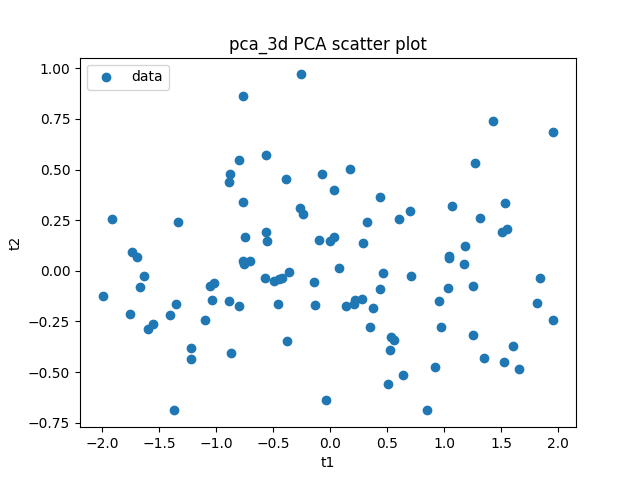
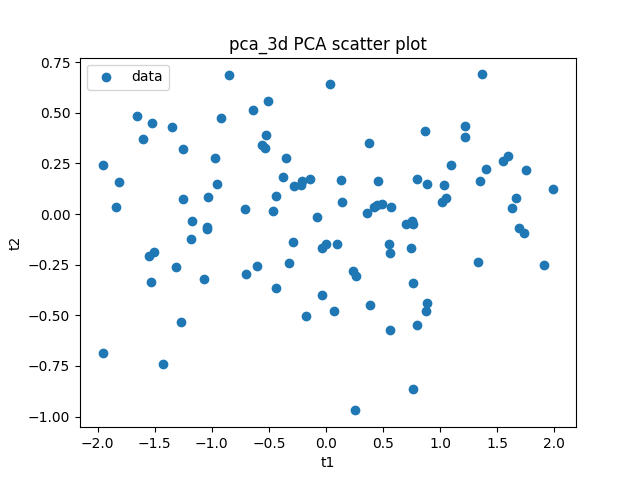
課題2の機能面の実装完了

diff --git a/ex2/y_arakawa/main.py b/ex2/y_arakawa/main.py
@@ -78,8 +78,8 @@ def pca_2d(
   X_cov = np.cov(X_centered.T)
   print("X_cov:\n",X_cov)
   # 固有値、固有ベクトルを求める
-  eig = np.linalg.eig(X_cov)[0]
-  eigvec = np.linalg.eig(X_cov)[1]
+  eig = np.linalg.eigh(X_cov)[0]
+  eigvec = np.linalg.eigh(X_cov)[1]
   # 大きい順に並べ替え
   idx = np.argsort(eig)[::-1]
   eig = eig[idx]
@@ -136,8 +136,8 @@ def pca_3d(
   X_cov = np.cov(X_centered.T)
   print("X_cov:\n",X_cov)
   # 固有値、固有ベクトルを求める
-  eig = np.linalg.eig(X_cov)[0]
-  eigvec = np.linalg.eig(X_cov)[1]
+  eig = np.linalg.eigh(X_cov)[0]
+  eigvec = np.linalg.eigh(X_cov)[1]
   # 大きい順に並べ替え
   idx = np.argsort(eig)[::-1]
   eig = eig[idx]
@@ -166,23 +166,23 @@ def make3d_scatter_axis_figure(
     ) -> None:
   """主成分の軸表示付きの3次元散布図を作成する．"""
   print(f"中心:\n({ave_x}, {ave_y}, {ave_z})")
-  x_range = [-1.5, 1.5]
-  y_range = [-1.5, 1.5]
-  z_range = [-1.5, 1.5]
   fig = plt.figure()
   ax = fig.add_subplot(111, projection="3d")
   ax.scatter(x, y, z, label="data")
   colors = ["tab:red", "tab:blue", "tab:green"]
+  axis_length = 1.5
   for i in range(3):
     direction = coefficients[:, i]
     slope_y = direction[1] / direction[0] if direction[0] != 0 else np.inf
     slope_z = direction[2] / direction[0] if direction[0] != 0 else np.inf
-    ax.quiver(
-      ave_x, ave_y, ave_z,
-      direction[0], direction[1], direction[2],
-      color=colors[i],
-      label=f"PC{i + 1}"
-    )
+    norm = np.linalg.norm(direction)
+    if norm == 0:
+      continue
+    unit_direction = direction / norm
+    line_x = [ave_x - axis_length * unit_direction[0], ave_x + axis_length * unit_direction[0]]
+    line_y = [ave_y - axis_length * unit_direction[1], ave_y + axis_length * unit_direction[1]]
+    line_z = [ave_z - axis_length * unit_direction[2], ave_z + axis_length * unit_direction[2]]
+    ax.plot(line_x, line_y, line_z, color=colors[i], label=f"PC{i + 1}")
     print(f"PC{i+1}\n slope_y={slope_y}, slope_z={slope_z}")
   ax.legend(loc="upper left")
   ax.set_title(title)
@@ -213,8 +213,197 @@ def PC_show(
   plt.close()
 
 
-# def 
+def ave_center_100d(
+    X:np.ndarray
+) -> tuple[np.ndarray, np.ndarray]:
+  """100次元データを平均中心化する．"""
+  ave = np.average(X, axis=0)
+  # 平均中心化
+  return (X - ave, ave)
 
+
+def show_cumulative_contribution_ratio_sample_100d(
+    X:np.ndarray
+) -> None:
+  """100次元データの累積寄与率をグラフで表示する．"""
+  X_centered, ave = ave_center_100d(X)
+  # 共分散行列
+  X_cov = np.cov(X_centered.T)
+  # 固有値、固有ベクトルを求める
+  eig = np.linalg.eigh(X_cov)[0]
+  # 大きい順に並べ替え
+  idx = np.argsort(eig)[::-1]
+  eig = eig[idx]
+  # 寄与率
+  cr = eig/sum(eig)
+  # 累積寄与率
+  ccr = np.cumsum(cr)
+  plt.figure()
+  plt.plot(range(1, len(ccr) + 1), ccr, marker="o")
+  plt.axhline(y=0.9, color="r", linestyle="--")
+  plt.title("Cumulative Contribution Ratio")
+  plt.xlabel("Number of Principal Components")
+  plt.ylabel("Cumulative Contribution Ratio")
+  plt.grid()
+  plt.savefig("output/cumulative_contribution_ratio_100d.png")
+  plt.close()
+
+def pca_100d(
+    X:np.ndarray
+) -> tuple[np.ndarray, np.ndarray, np.ndarray] :
+  """100次元データのPCA．2次元まで圧縮する．"""
+  X_centered, ave = ave_center_100d(X)
+  # 共分散行列
+  X_cov = np.cov(X_centered.T)
+  print("X_cov:\n",X_cov)
+  # 固有値、固有ベクトルを求める
+  eig = np.linalg.eigh(X_cov)[0]
+  eigvec = np.linalg.eigh(X_cov)[1]
+  # 大きい順に並べ替え
+  idx = np.argsort(eig)[::-1]
+  eig = eig[idx]
+  eigvec = eigvec[:, idx]
+  print("idx\n", idx)
+  print("eig:\n",eig)
+  print("eigvec:\n",eigvec)
+  # 寄与率
+  cr = eig/sum(eig)
+  print("寄与率:\n",cr)
+  # 累積寄与率
+  ccr = np.cumsum(cr)
+  print("累積寄与率:\n", ccr)
+  # 累積寄与率が0.9以上になる最小の次元数を求める
+  n_components = np.argmax(ccr >= 0.9) + 1
+  print("累積寄与率が0.9以上になる最小の次元数:", n_components)
+  return (eig, eigvec, ave)
+
+
+def PC_show_pca_100d(
+    X: np.ndarray,
+    eigvec: np.ndarray,
+    title:str
+) -> None:
+  """主成分の計算と表示．第1・第2主成分スコアの2次元散布図．"""
+  # 主成分への変換
+  t1 = np.dot(X, eigvec[:,0])
+  t2 = np.dot(X, eigvec[:,1])
+  fig = plt.figure()
+  ax = fig.add_subplot(111)
+  ax.scatter(t1, t2, label="data")
+  ax.legend(loc="upper left")
+  ax.set_title(title)
+  ax.set_ylabel("t2")
+  ax.set_xlabel("t1")
+  plt.savefig(f"output/{title}.png")
+  plt.close()
+
+
+def lda(
+    X: np.ndarray
+) -> tuple[np.ndarray, np.ndarray, np.ndarray, np.ndarray]:
+  """ldaを実施．"""
+  # 行列をlabelごとに分離
+  X0 = X[X[:,2]==0].reshape((-1,3))[:,0:2]
+  X1 = X[X[:,2]==1].reshape((-1,3))[:,0:2]
+  print("X0:\n", X0)
+  print("X1:\n", X1)
+  # クラスごとの平均ベクトルを計算
+  ave_X0 = np.average(X0, axis=0)
+  ave_X1 = np.average(X1, axis=0)
+  print("ave_X0:\n", ave_X0)
+  print("ave_X1:\n", ave_X1)
+  # クラス内分散行列
+  X0 = X0 - ave_X0
+  X1 = X1 - ave_X1
+  SW = np.zeros((2,2))
+  for x in X0:
+    SW += x.reshape((2,1)) @ x.reshape((2,1)).T
+  for x in X1:
+    SW += x.reshape((2,1)) @ x.reshape((2,1)).T
+  print("SW:\n", SW)
+  # クラス間分散行列
+  SB = (ave_X0 - ave_X1).reshape((2,1)) @ (ave_X0 - ave_X1).reshape((2,1)).T
+  print("SB:\n", SB)
+  # 固有値問題を解く
+  # 固有値、固有ベクトルを求める
+  eig = np.linalg.eigh(np.linalg.inv(SW) @ SB)[0]
+  eigvec = np.linalg.eigh(np.linalg.inv(SW) @ SB)[1]
+  # 大きい順に並べ替え
+  idx = np.argsort(eig)[::-1]
+  eig = eig[idx]
+  eigvec = eigvec[:, idx]
+  print("idx\n", idx)
+  print("eig:\n",eig)
+  print("eigvec:\n",eigvec)
+  return (eig, eigvec, ave_X0, ave_X1)
+
+
+def make_lda_scatter_axis_figure(
+    x: pd.Series,
+    y: pd.Series,
+    coefficients: np.array,
+    ave_x: float,
+    ave_y: float,
+    title: str
+    ) -> None:
+  """LDAの軸表示付きの2次元散布図を作成する．
+  軸の始点をクラス間の重心の中点に設定する。"""
+  print(f"中心(中点):\n({ave_x}, {ave_y})")
+  fig = plt.figure()
+  ax = fig.add_subplot(111)
+  plt.scatter(x, y, label="data")
+  colors = ["tab:red"]
+  for i in range(1):
+    direction = coefficients[:, i]
+    slope = direction[1] / direction[0] if direction[0] != 0 else np.inf
+    ax.axline(
+      (ave_x, ave_y),
+      slope=slope,
+      color=colors[i],
+      label=f"LD{i + 1}"
+    )
+    print(f"LD{i+1}\n slope={slope}")
+  plt.legend(loc="upper left")
+  plt.title(title)
+  plt.ylabel("y")
+  plt.xlabel("x")
+  plt.savefig(f"output/{title}.png")
+  plt.close()
+
+
+def make_lda_1dprojection_figure(
+    x: pd.Series,
+    y: pd.Series,
+    labels: pd.Series,
+    ave_x: float,
+    ave_y: float,
+    coefficients: np.array,
+    title: str
+    ) -> None:
+  """LDAの軸に射影した1次元散布図を作成する．"""
+  X = np.column_stack((x.to_numpy(), y.to_numpy()))
+  direction = coefficients[:, 0]
+  norm = np.linalg.norm(direction)
+  if norm == 0:
+    raise ValueError("LDAの射影方向のノルムが0です")
+  unit_direction = direction / norm
+  projected = (X - np.array([ave_x, ave_y])) @ unit_direction
+  label_values = labels.to_numpy()
+  class0 = projected[label_values == 0]
+  class1 = projected[label_values == 1]
+  threshold = (np.average(class0) + np.average(class1)) / 2
+
+  fig = plt.figure()
+  ax = fig.add_subplot(111)
+  ax.scatter(class0, np.zeros_like(class0), label="class 0")
+  ax.scatter(class1, np.ones_like(class1), label="class 1")
+  ax.axvline(threshold, color="tab:red", linestyle="--", label=f"threshold={threshold:.3f}")
+  ax.set_title(title)
+  ax.set_xlabel("LDA axis value")
+  ax.set_yticks([])
+  ax.legend(loc="upper right")
+  plt.savefig(f"output/{title}.png")
+  plt.close()
 
 if __name__ == "__main__":
   # CSVファイルからデータを読み込む
@@ -242,3 +431,20 @@ if __name__ == "__main__":
   PC_show(sample3d_centered, eigvec, "pca_3d PCA scatter plot")
 
 
+  # pca_100d
+  print("Start PCA_100d")
+  sample100d = sample100d_raw.to_numpy()
+  eig, eigvec, ave = pca_100d(sample100d)
+  sample100d_centered, ave = ave_center_100d(sample100d)
+  PC_show_pca_100d(sample100d_centered, eigvec, "pca_100d PCA scatter plot")
+  show_cumulative_contribution_ratio_sample_100d(sample100d)
+
+
+  # lda
+  print("Start LDA")
+  sample_2c = sample2c_raw.to_numpy()
+  eig, eigvec, ave_X0, ave_X1 = lda(sample_2c)
+  mid = (ave_X0 + ave_X1) / 2
+  ave_x_mid, ave_y_mid = mid[0], mid[1]
+  make_lda_scatter_axis_figure(sample2c_raw["x1"], sample2c_raw["x2"], eigvec, ave_x_mid, ave_y_mid, "lda scatter plot with LDA axis")
+  make_lda_1dprojection_figure(sample2c_raw["x1"], sample2c_raw["x2"], sample2c_raw["label"], ave_x_mid, ave_y_mid, eigvec, "lda scatter plot with LDA axis (1d projection)")
